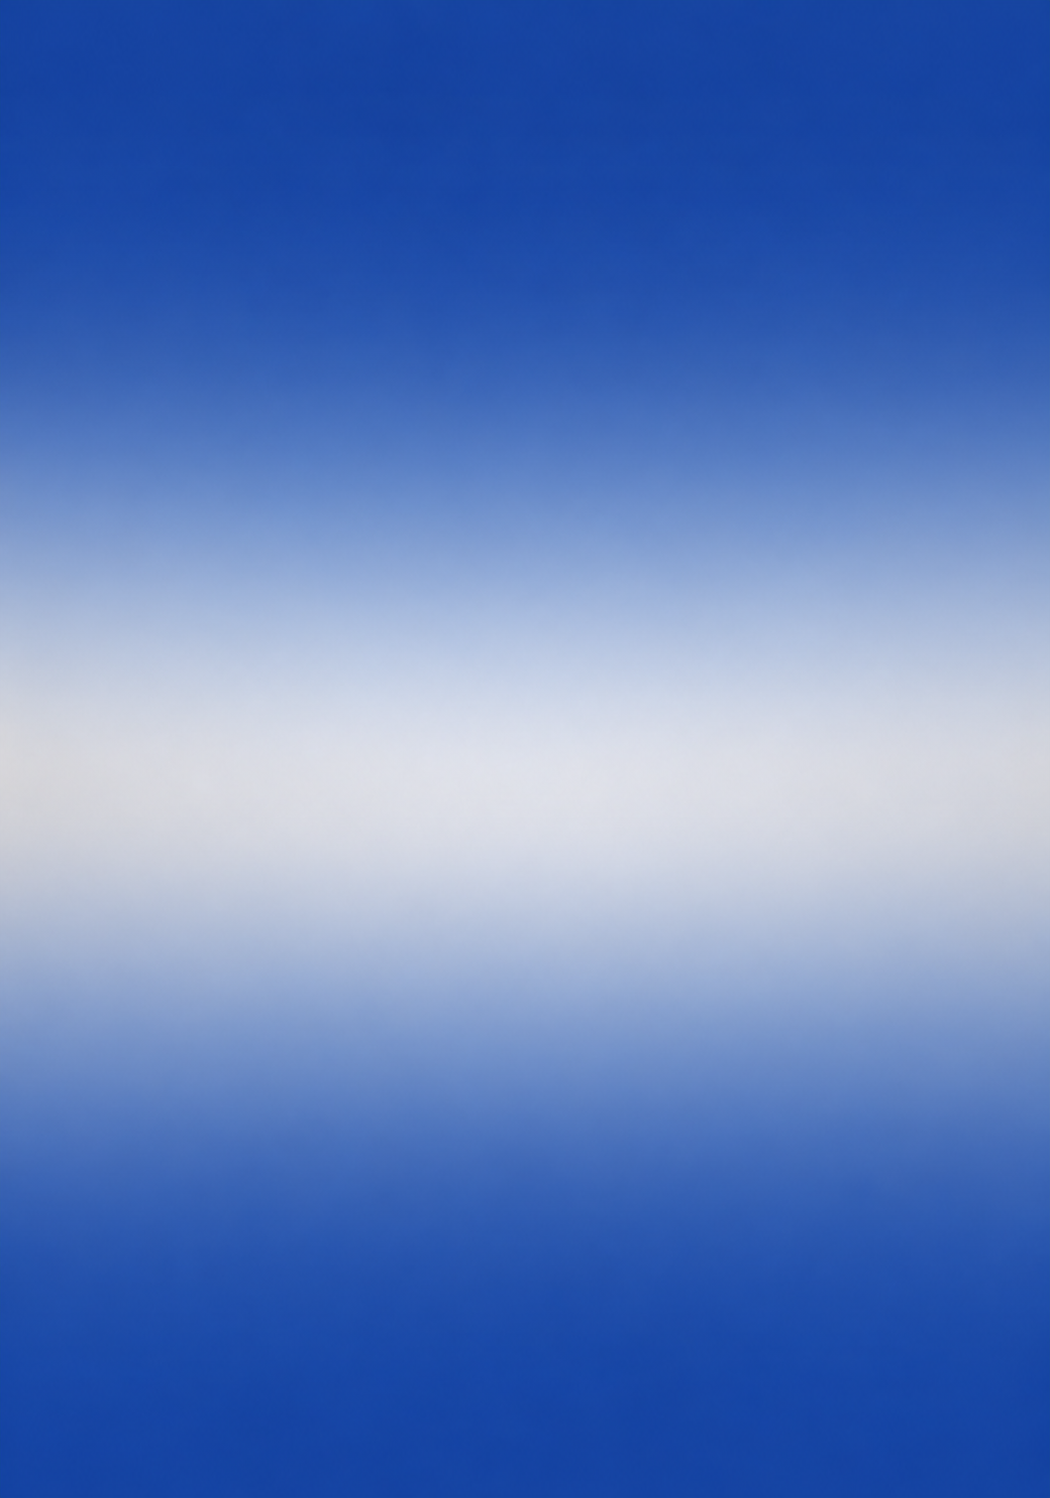
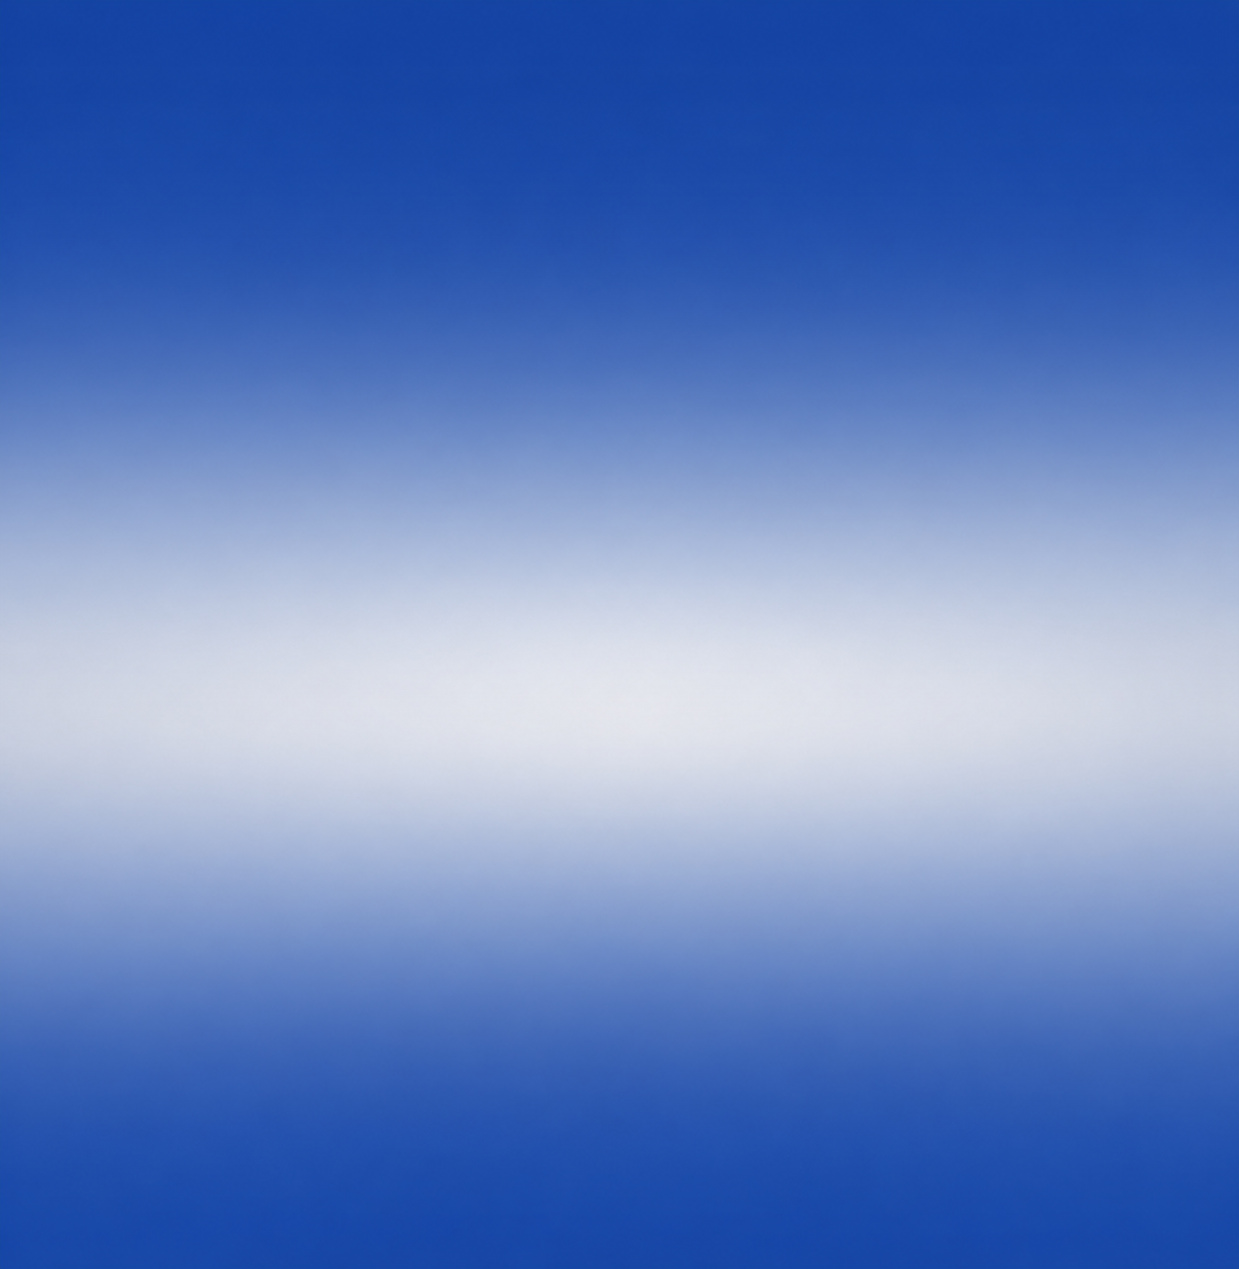
loggedout

Changed region(s): [[0.0, 0.5839, 1.0, 0.7991], [0.0, 0.4303, 0.0305, 0.4917]]

diff --git a/src/pages/HomePage.tsx b/src/pages/HomePage.tsx
@@ -146,7 +146,20 @@ We enable specialist businesses and independent professionals to connect, share 
 
 <div className="relative mt-10">
  <div
-  className="absolute inset-0 opacity-100 pointer-events-none -z-10"
+  className="hidden md:block absolute pointer-events-none -z-10"
+  style={{
+    backgroundImage: `url(${cardsBg})`,
+    width: '1197px',
+    height: '1216px',
+    top: 0,
+    left: '50%',
+    transform: 'translateX(-50%)',
+    backgroundSize: '1197px 1216px',
+    backgroundRepeat: 'no-repeat',
+  }}
+/>
+<div
+  className="md:hidden absolute inset-0 opacity-100 pointer-events-none -z-10"
   style={{
     backgroundImage: `url(${cardsBg})`,
     backgroundSize: '100% 100%',
